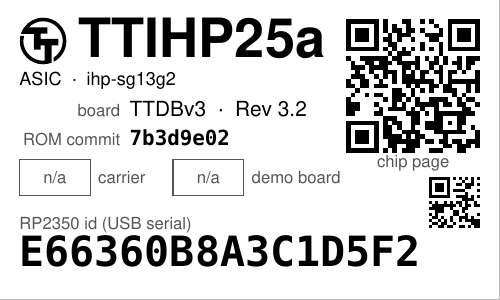
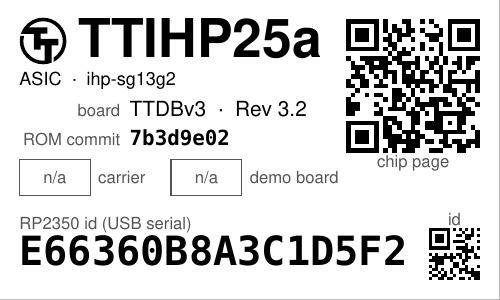
labels: the Tiny Tapeout id QR gets its own corner and caption
The small RP2 id QR moves to the die-cut corner at the right end of the
id row (PAD below and right, the id fitted 2 mm short of it) with a grey
"id" caption of its own, so it no longer sits under the chip-page caption
or converges with the identifier. The text column stops 3 mm short of the
chip-page QR, so a long shuttle name (TTIHP25a) shrinks instead of
entering its quiet zone. The silkscreen-colour inner rule in the swatch
is dropped: a white line on pink does not read at print size. README and
the example images follow.

Claude-Session: https://claude.ai/code/session_017ibyTnuBCnNY7ACKAkdRiT

diff --git a/src/rpi_hwid/labels.py b/src/rpi_hwid/labels.py
@@ -558,10 +558,11 @@ def draw_usb(lab, dev):
     lab.fit(PAD, y + CAPTION * 0.72 + cap_gap, dev.mac, MONO, mac_size, LABEL_W - 2 * PAD)
 
 
-def swatch(lab, x, y, w, h, colour, silk):
+def swatch(lab, x, y, w, h, colour):
     """A colour-identification box: a keyline rectangle filled with the
-    board colour, with a thin inner line in the silkscreen colour when that
-    is known; empty with "n/a" inside when the colour is not recorded."""
+    board colour; empty with "n/a" inside when the colour is not recorded.
+    (The silkscreen colour is in the table but not drawn: a white line on
+    pink is too faint at print size to identify anything.)"""
     c = lab.c
     px, py = lab.pt(x, y + h)
     c.setStrokeColor(GREY)
@@ -569,11 +570,6 @@ def swatch(lab, x, y, w, h, colour, silk):
     if colour:
         c.setFillColor(HexColor(colour))
         c.rect(px, py, w, h, stroke=1, fill=1)
-        if silk:
-            inset = 0.6 * mm
-            c.setStrokeColor(HexColor(silk))
-            c.setLineWidth(0.5)
-            c.rect(px + inset, py + inset, w - 2 * inset, h - 2 * inset, stroke=1, fill=0)
     else:
         c.rect(px, py, w, h, stroke=1, fill=0)
         lab.text(x + w / 2, y + (h - CAPTION * 0.72) / 2, "n/a", SANS, CAPTION,
@@ -586,31 +582,42 @@ def draw_tinytapeout(lab, tt):
     """Left: the Tiny Tapeout mark beside the shuttle as the headline, the
     chip's kind and PDK under it, then the demo board and the ROM commit as
     captioned rows, then a colour box each for the chip carrier and the
-    demo board (board colour, silkscreen colour as the inner line, the
-    colour's name beside it) so the right board is picked out of a drawer.
-    Right: a QR that opens the chip's page on tinytapeout.com, and a small
-    QR of the RP2 id above the foot. Bottom, full width: the demo board's
-    RP2 unique id, its USB serial, the one thing on it that cannot change,
-    set like the FPGA label's DNA."""
-    # --- right column: the chip page QR, its caption, the id's QR ---
+    demo board (board colour, the colour's name beside it) so the right
+    board is picked out of a drawer. Right: a QR that opens the chip's
+    page on tinytapeout.com. Foot: the demo board's RP2 unique id, its USB
+    serial, the one thing on it that cannot change, set like the FPGA
+    label's DNA, with its own small QR at the right end of the row."""
+    # --- the chip page QR, its caption ---
     qr_size = 17 * mm
     qx = LABEL_W - PAD - qr_size
     lab.qr(qx, PAD, qr_size, tt.url)
     lab.text(qx + qr_size / 2, PAD + qr_size + 0.4 * mm, "chip page", SANS, CAPTION,
              align="centre", color=GREY)
+
+    # --- the foot: the id, caption over it, its QR at the row's right end ---
+    # The QR sits in the die-cut corner (PAD = 2.5 mm quiet zone below and
+    # right), the id is fitted 2 mm short of it, and the "id" caption is
+    # the only thing near it.
     id_size = 15
     id_h = 6 * mm
     id_y = LABEL_H - PAD - id_h
     id_qr = 6.5 * mm                   # 21 modules at 0.31 mm, like the Pi serial's
+    id_w = LABEL_W - 2 * PAD
+    cap_y = id_y + 0.5 * mm - CAPTION * 0.72 - 0.9 * mm
+    lab.text(PAD, cap_y, "%s id (USB serial)" % (tt.mcu or "RP2"), SANS, CAPTION, color=GREY)
     if tt.usb_serial:
-        # 1.2 mm (four modules) under the caption; the id line below it is
-        # shorter than the label, so nothing runs under the code
-        lab.qr(LABEL_W - PAD - id_qr, id_y - 0.5 * mm - id_qr, id_qr, tt.usb_serial,
-               error="l")
+        qr_x, qr_y = LABEL_W - PAD - id_qr, LABEL_H - PAD - id_qr
+        lab.qr(qr_x, qr_y, id_qr, tt.usb_serial, error="l")
+        lab.text(qr_x + id_qr / 2, qr_y - 0.4 * mm - CAPTION * 0.72, "id", SANS, CAPTION,
+                 align="centre", color=GREY)
+        id_w -= id_qr + 2 * mm
+        lab.fit(PAD, id_y + 0.5 * mm, tt.usb_serial, MONO, id_size, id_w)
+    else:
+        lab.rule(PAD, id_y + 0.5 * mm + id_size * 0.72 + 0.3 * mm, id_w)
 
-    # --- left column ---
+    # --- left column, 3 mm clear of the chip page QR ---
     x, y = PAD, PAD
-    col_w = qx - 2.5 * mm - x
+    col_w = qx - 3 * mm - x
     head_size = 22
     head_cap = head_size * 0.72
     mark_h = 6 * mm
@@ -633,11 +640,11 @@ def draw_tinytapeout(lab, tt):
     # the colour boxes, each with its caption over its colour's name
     sw, sh = 9 * mm, 4.5 * mm
     line = CAPTION * 0.72 + 0.6 * mm
-    for i, (cap, colour, silk, name) in enumerate((
-            ("carrier", tt.chip_colour, tt.chip_silk, tt.chip_colour_name),
-            ("demo board", tt.demoboard_colour, tt.demoboard_silk, tt.demoboard_colour_name))):
+    for i, (cap, colour, name) in enumerate((
+            ("carrier", tt.chip_colour, tt.chip_colour_name),
+            ("demo board", tt.demoboard_colour, tt.demoboard_colour_name))):
         sx = x + i * (col_w / 2)
-        swatch(lab, sx, y, sw, sh, colour, silk)
+        swatch(lab, sx, y, sw, sh, colour)
         if name:
             ty = y + (sh - 2 * line + 0.6 * mm) / 2
             lab.text(sx + sw + 1 * mm, ty, cap, SANS, CAPTION, color=GREY)
@@ -646,13 +653,6 @@ def draw_tinytapeout(lab, tt):
             lab.text(sx + sw + 1 * mm, y + (sh - CAPTION * 0.72) / 2, cap, SANS, CAPTION,
                      color=GREY)
 
-    # --- the foot: the id, caption over it, like the DNA line ---
-    cap_y = id_y + 0.5 * mm - CAPTION * 0.72 - 0.9 * mm
-    lab.text(PAD, cap_y, "%s id (USB serial)" % (tt.mcu or "RP2"), SANS, CAPTION, color=GREY)
-    if tt.usb_serial:
-        lab.fit(PAD, id_y + 0.5 * mm, tt.usb_serial, MONO, id_size, LABEL_W - 2 * PAD)
-    else:
-        lab.rule(PAD, id_y + 0.5 * mm + id_size * 0.72 + 0.3 * mm, LABEL_W - 2 * PAD)
 
 
 # --- records from probe documents --------------------------------------------
@@ -710,10 +710,8 @@ class TinyTapeoutLabel:
     usb_serial: str | None = None
     mcu: str | None = None           # RP2040 | RP2350
     chip_colour: str | None = None   # hex, from the table
-    chip_silk: str | None = None
     chip_colour_name: str | None = None
     demoboard_colour: str | None = None
-    demoboard_silk: str | None = None
     demoboard_colour_name: str | None = None
 
 
@@ -809,10 +807,8 @@ def tinytapeout_records(docs):
                 shuttle=b.shuttle, chip=b.chip, commit=b.commit, usb_serial=b.usb_serial,
                 mcu=b.mcu,
                 chip_colour=tt_data.COLOURS.get(info["chip_colour"] or ""),
-                chip_silk=tt_data.COLOURS.get(info["chip_silk"] or ""),
                 chip_colour_name=info["chip_colour"],
                 demoboard_colour=tt_data.COLOURS.get(info["demoboard_colour"] or ""),
-                demoboard_silk=tt_data.COLOURS.get(info["demoboard_silk"] or ""),
                 demoboard_colour_name=info["demoboard_colour"],
             ))
     return out

diff --git a/tests/test_labels.py b/tests/test_labels.py
@@ -48,9 +48,8 @@ def test_tinytapeout_records(docs):
     assert tt06.commit == "0f5a1b2c"
     assert tt06.usb_serial == "E6614C311B7A7A37"
     assert tt06.mcu == "RP2040"
-    assert (tt06.chip_colour, tt06.chip_silk) == ("#f28cb3", "#f8f8f8")
+    assert (tt06.chip_colour, tt06.demoboard_colour) == ("#f28cb3", "#f28cb3")
     assert (tt06.chip_colour_name, tt06.demoboard_colour_name) == ("pink", "pink")
-    assert (tt06.demoboard_colour, tt06.demoboard_silk) == ("#f28cb3", "#f8f8f8")
     assert ihp.headline == "TTIHP25a"
     assert ihp.subtitle == "ASIC  ·  ihp-sg13g2"
     assert ihp.demoboard_text == "TTDBv3  ·  Rev 3.2"

diff --git a/README.md b/README.md
@@ -365,12 +365,12 @@ when it has not been read yet.
 **Tiny Tapeout boards.** The shuttle is the headline, with ASIC or FPGA
 breakout and the PDK under it; then the demo board as the SDK detected it
 with the revision that shipped in that kit, and the chip ROM's commit. The
-two colour boxes are the chip carrier's and the demo board's colours, the
-silkscreen colour as the inner line and the colour's name beside each, so
-the right board is picked out of a drawer (an empty box marked n/a where
-the colour is not recorded). The large QR opens the chip's page on
-tinytapeout.com; the demo board's RP2 unique id, its USB serial, runs
-along the bottom with its own small QR above it.
+two colour boxes are the chip carrier's and the demo board's colours with
+the colour's name beside each, so the right board is picked out of a
+drawer (an empty box marked n/a where the colour is not recorded). The
+large QR opens the chip's page on tinytapeout.com; the demo board's RP2
+unique id, its USB serial, runs along the bottom with its own small QR at
+the end of the row.
 
 <p>
 <img src="https://raw.githubusercontent.com/mithro/rpi-hwid/main/docs/examples/tinytapeout.png" alt="TT06 chip on a TT06+ demo board" width="49%">
